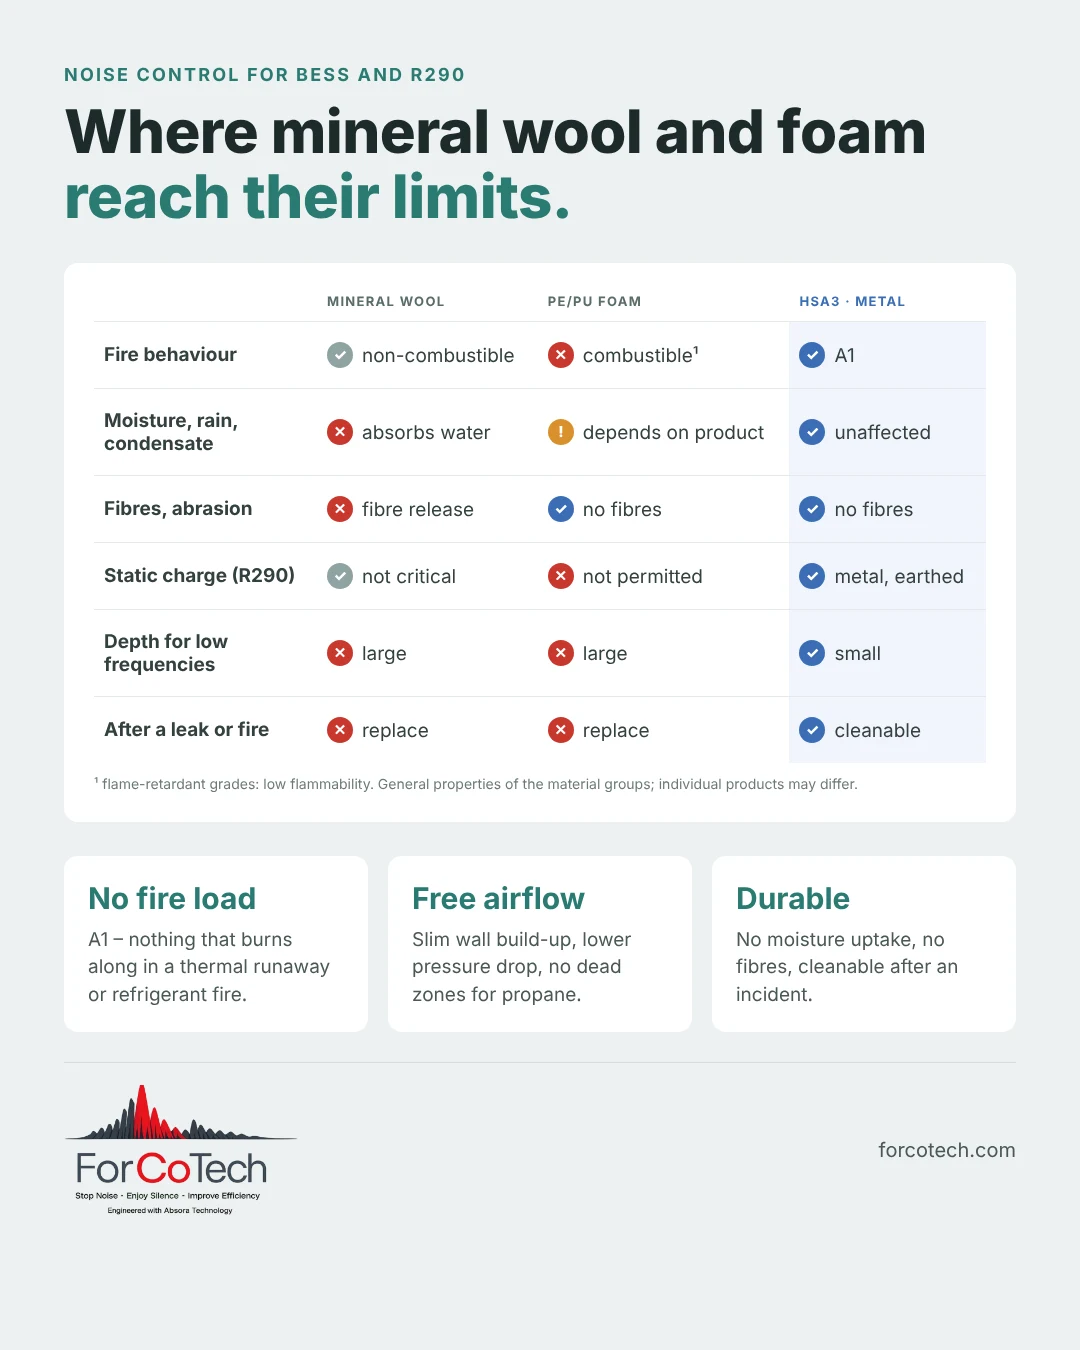
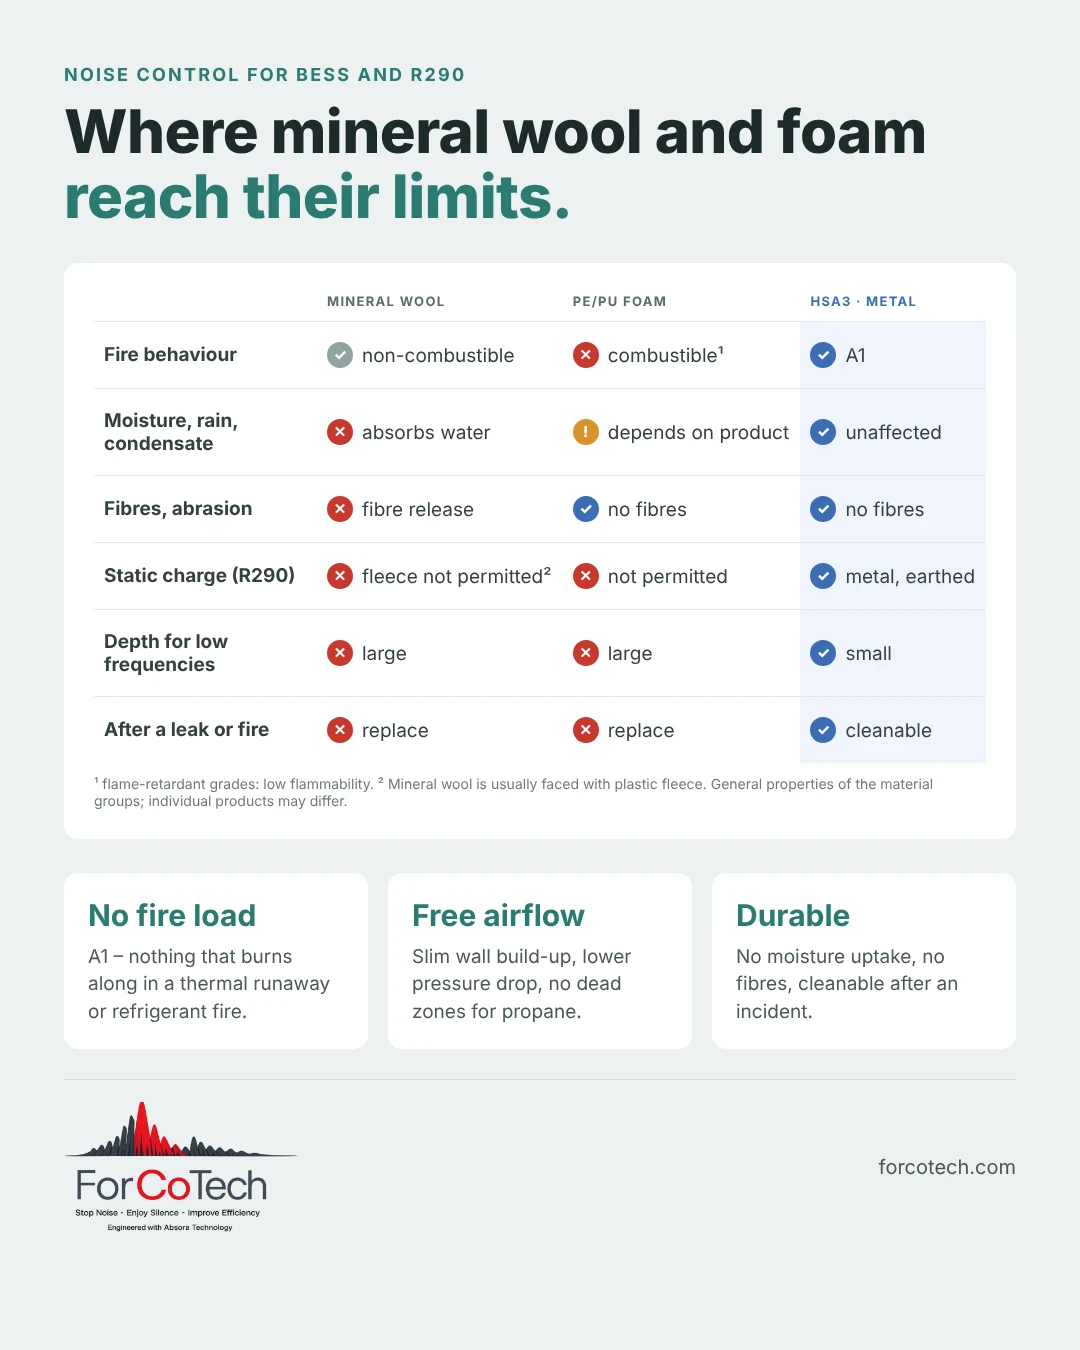
R290-Elektrostatik: Mineralwolle mit Kunststoffvlies ebenfalls als unzulässig gekennzeichnet
Claude-Session: https://claude.ai/code/session_019hLttAixdbpZvZQj1sVG3D

diff --git a/fr/actualites/schallschutz-bess-r290-hsa3/index.html b/fr/actualites/schallschutz-bess-r290-hsa3/index.html
@@ -68,7 +68,7 @@
 <p>Le propane est plus lourd que l’air. En cas de fuite, aucune concentration inflammable ne doit s’accumuler dans le caisson.</p>
 <ul class="check">
 <li><b>Les couches d’absorbant épaisses</b> réduisent les sections libres et créent des zones mortes où le gaz peut stagner.</li>
-<li><b>Les mousses plastiques et les voiles</b> peuvent se charger électrostatiquement sous l’effet du flux d’air. Les décharges électrostatiques sont une source d’inflammation : ces matériaux n’ont donc pas leur place dans la zone de sécurité d’une installation R290.</li>
+<li><b>Les mousses plastiques et les voiles synthétiques</b> qui recouvrent généralement la laine minérale peuvent se charger électrostatiquement sous l’effet du flux d’air. Les décharges électrostatiques sont une source d’inflammation : ces matériaux n’ont donc pas leur place dans la zone de sécurité d’une installation R290.</li>
 <li><b>HSA3 est en métal</b>, peut être mis à la terre en continu et reste fin. Nos caissons n’ont pas de fond et comportent des ouvertures de passage dans les profilés, afin que le réfrigérant qui s’échappe s’écoule librement vers le bas.</li>
 </ul>
 <p>Nous n’encoffrons une installation R290 qu’avec l’accord du fabricant de l’appareil. Plus d’informations sur notre <a href="/fr/technique/">page technique</a>.</p>
@@ -102,7 +102,7 @@
     <tr><th scope="row">Réaction au feu</th><td>incombustible selon le produit</td><td>combustible, difficilement inflammable en version ignifugée</td><td class="hl">A1, incombustible</td></tr>
     <tr><th scope="row">Humidité, pluie, condensats</th><td>absorbe l’eau</td><td>selon le produit</td><td class="hl">insensible</td></tr>
     <tr><th scope="row">Fibres, abrasion</th><td>émission de fibres possible</td><td>sans fibres</td><td class="hl">sans fibres</td></tr>
-    <tr><th scope="row">Électricité statique (R290)</th><td>non critique</td><td>chargeable – non admis dans la zone de sécurité R290</td><td class="hl">métal, mis à la terre en continu</td></tr>
+    <tr><th scope="row">Électricité statique (R290)</th><td>généralement revêtue d’un voile synthétique – non admis dans la zone de sécurité R290</td><td>chargeable – non admis dans la zone de sécurité R290</td><td class="hl">métal, mis à la terre en continu</td></tr>
     <tr><th scope="row">Épaisseur pour les basses fréquences</th><td>grande</td><td>grande</td><td class="hl">faible, cavité de résonance de 44 mm</td></tr>
     <tr><th scope="row">Perte de charge des baffles</th><td>référence</td><td>comparable</td><td class="hl">jusqu’à 40 % de moins</td></tr>
     <tr><th scope="row">Après fuite ou incendie</th><td>à remplacer</td><td>à remplacer</td><td class="hl">nettoyable, réutilisable</td></tr>

diff --git a/news/_src/schallschutz-bess-r290-hsa3.fr.html b/news/_src/schallschutz-bess-r290-hsa3.fr.html
@@ -16,7 +16,7 @@
 <p>Le propane est plus lourd que l’air. En cas de fuite, aucune concentration inflammable ne doit s’accumuler dans le caisson.</p>
 <ul class="check">
 <li><b>Les couches d’absorbant épaisses</b> réduisent les sections libres et créent des zones mortes où le gaz peut stagner.</li>
-<li><b>Les mousses plastiques et les voiles</b> peuvent se charger électrostatiquement sous l’effet du flux d’air. Les décharges électrostatiques sont une source d’inflammation : ces matériaux n’ont donc pas leur place dans la zone de sécurité d’une installation R290.</li>
+<li><b>Les mousses plastiques et les voiles synthétiques</b> qui recouvrent généralement la laine minérale peuvent se charger électrostatiquement sous l’effet du flux d’air. Les décharges électrostatiques sont une source d’inflammation : ces matériaux n’ont donc pas leur place dans la zone de sécurité d’une installation R290.</li>
 <li><b>HSA3 est en métal</b>, peut être mis à la terre en continu et reste fin. Nos caissons n’ont pas de fond et comportent des ouvertures de passage dans les profilés, afin que le réfrigérant qui s’échappe s’écoule librement vers le bas.</li>
 </ul>
 <p>Nous n’encoffrons une installation R290 qu’avec l’accord du fabricant de l’appareil. Plus d’informations sur notre <a href="/fr/technique/">page technique</a>.</p>
@@ -50,7 +50,7 @@
     <tr><th scope="row">Réaction au feu</th><td>incombustible selon le produit</td><td>combustible, difficilement inflammable en version ignifugée</td><td class="hl">A1, incombustible</td></tr>
     <tr><th scope="row">Humidité, pluie, condensats</th><td>absorbe l’eau</td><td>selon le produit</td><td class="hl">insensible</td></tr>
     <tr><th scope="row">Fibres, abrasion</th><td>émission de fibres possible</td><td>sans fibres</td><td class="hl">sans fibres</td></tr>
-    <tr><th scope="row">Électricité statique (R290)</th><td>non critique</td><td>chargeable – non admis dans la zone de sécurité R290</td><td class="hl">métal, mis à la terre en continu</td></tr>
+    <tr><th scope="row">Électricité statique (R290)</th><td>généralement revêtue d’un voile synthétique – non admis dans la zone de sécurité R290</td><td>chargeable – non admis dans la zone de sécurité R290</td><td class="hl">métal, mis à la terre en continu</td></tr>
     <tr><th scope="row">Épaisseur pour les basses fréquences</th><td>grande</td><td>grande</td><td class="hl">faible, cavité de résonance de 44 mm</td></tr>
     <tr><th scope="row">Perte de charge des baffles</th><td>référence</td><td>comparable</td><td class="hl">jusqu’à 40 % de moins</td></tr>
     <tr><th scope="row">Après fuite ou incendie</th><td>à remplacer</td><td>à remplacer</td><td class="hl">nettoyable, réutilisable</td></tr>

diff --git a/news/schallschutz-bess-r290-hsa3/index.html b/news/schallschutz-bess-r290-hsa3/index.html
@@ -70,7 +70,7 @@
 <p>Propan ist schwerer als Luft. Bei einem Leck darf sich in der Haube keine zündfähige Konzentration sammeln.</p>
 <ul class="check">
 <li><b>Dicke Absorberpakete</b> verengen Querschnitte und schaffen Toträume, in denen sich Gas halten kann.</li>
-<li><b>Kunststoffschäume und Vliese</b> können sich durch die Luftströmung elektrostatisch aufladen. Elektrostatische Entladungen sind eine Zündquelle. Im Schutzbereich einer R290-Anlage haben solche Materialien deshalb nichts zu suchen (vgl. TRGS 727).</li>
+<li><b>Kunststoffschäume und Kunststoffvliese</b>, mit denen Mineralwolle meist kaschiert ist, können sich durch die Luftströmung elektrostatisch aufladen. Elektrostatische Entladungen sind eine Zündquelle. Im Schutzbereich einer R290-Anlage haben solche Materialien deshalb nichts zu suchen (vgl. TRGS 727).</li>
 <li><b>HSA3 aus Metall</b> lässt sich durchgehend erden und baut schlank. Unsere Hauben haben keinen Boden und Durchströmöffnungen in den Profilen, damit austretendes Kältemittel frei nach unten abfließt.</li>
 </ul>
 <p>Eine Einhausung um eine R290-Anlage setzen wir nur mit Freigabe des Geräteherstellers um. Mehr dazu auf unserer <a href="/technik/">Technik-Seite</a>.</p>
@@ -104,7 +104,7 @@
     <tr><th scope="row">Brandverhalten</th><td>nicht brennbar, je nach Produkt</td><td>brennbar, als FR-Ausführung schwer entflammbar</td><td class="hl">A1, nicht brennbar</td></tr>
     <tr><th scope="row">Feuchte, Regen, Tauwasser</th><td>saugt Wasser auf</td><td>je nach Produkt</td><td class="hl">unempfindlich</td></tr>
     <tr><th scope="row">Fasern, Abrieb</th><td>Faserflug möglich</td><td>keine Fasern</td><td class="hl">keine Fasern</td></tr>
-    <tr><th scope="row">Elektrostatische Aufladung (R290)</th><td>unkritisch</td><td>aufladbar – im R290-Schutzbereich unzulässig</td><td class="hl">Metall, durchgehend erdbar</td></tr>
+    <tr><th scope="row">Elektrostatische Aufladung (R290)</th><td>meist mit Kunststoffvlies kaschiert – im R290-Schutzbereich unzulässig</td><td>aufladbar – im R290-Schutzbereich unzulässig</td><td class="hl">Metall, durchgehend erdbar</td></tr>
     <tr><th scope="row">Bautiefe für tiefe Frequenzen</th><td>groß</td><td>groß</td><td class="hl">gering, 44 mm Resonanzhohlraum</td></tr>
     <tr><th scope="row">Druckverlust in Kulissen</th><td>Referenz</td><td>vergleichbar</td><td class="hl">bis zu 40 % geringer</td></tr>
     <tr><th scope="row">Nach Leck oder Brand</th><td>Austausch</td><td>Austausch</td><td class="hl">reinigbar, weiterverwendbar</td></tr>

diff --git a/news/_src/schallschutz-bess-r290-hsa3.de.html b/news/_src/schallschutz-bess-r290-hsa3.de.html
@@ -16,7 +16,7 @@
 <p>Propan ist schwerer als Luft. Bei einem Leck darf sich in der Haube keine zündfähige Konzentration sammeln.</p>
 <ul class="check">
 <li><b>Dicke Absorberpakete</b> verengen Querschnitte und schaffen Toträume, in denen sich Gas halten kann.</li>
-<li><b>Kunststoffschäume und Vliese</b> können sich durch die Luftströmung elektrostatisch aufladen. Elektrostatische Entladungen sind eine Zündquelle. Im Schutzbereich einer R290-Anlage haben solche Materialien deshalb nichts zu suchen (vgl. TRGS 727).</li>
+<li><b>Kunststoffschäume und Kunststoffvliese</b>, mit denen Mineralwolle meist kaschiert ist, können sich durch die Luftströmung elektrostatisch aufladen. Elektrostatische Entladungen sind eine Zündquelle. Im Schutzbereich einer R290-Anlage haben solche Materialien deshalb nichts zu suchen (vgl. TRGS 727).</li>
 <li><b>HSA3 aus Metall</b> lässt sich durchgehend erden und baut schlank. Unsere Hauben haben keinen Boden und Durchströmöffnungen in den Profilen, damit austretendes Kältemittel frei nach unten abfließt.</li>
 </ul>
 <p>Eine Einhausung um eine R290-Anlage setzen wir nur mit Freigabe des Geräteherstellers um. Mehr dazu auf unserer <a href="/technik/">Technik-Seite</a>.</p>
@@ -50,7 +50,7 @@
     <tr><th scope="row">Brandverhalten</th><td>nicht brennbar, je nach Produkt</td><td>brennbar, als FR-Ausführung schwer entflammbar</td><td class="hl">A1, nicht brennbar</td></tr>
     <tr><th scope="row">Feuchte, Regen, Tauwasser</th><td>saugt Wasser auf</td><td>je nach Produkt</td><td class="hl">unempfindlich</td></tr>
     <tr><th scope="row">Fasern, Abrieb</th><td>Faserflug möglich</td><td>keine Fasern</td><td class="hl">keine Fasern</td></tr>
-    <tr><th scope="row">Elektrostatische Aufladung (R290)</th><td>unkritisch</td><td>aufladbar – im R290-Schutzbereich unzulässig</td><td class="hl">Metall, durchgehend erdbar</td></tr>
+    <tr><th scope="row">Elektrostatische Aufladung (R290)</th><td>meist mit Kunststoffvlies kaschiert – im R290-Schutzbereich unzulässig</td><td>aufladbar – im R290-Schutzbereich unzulässig</td><td class="hl">Metall, durchgehend erdbar</td></tr>
     <tr><th scope="row">Bautiefe für tiefe Frequenzen</th><td>groß</td><td>groß</td><td class="hl">gering, 44 mm Resonanzhohlraum</td></tr>
     <tr><th scope="row">Druckverlust in Kulissen</th><td>Referenz</td><td>vergleichbar</td><td class="hl">bis zu 40 % geringer</td></tr>
     <tr><th scope="row">Nach Leck oder Brand</th><td>Austausch</td><td>Austausch</td><td class="hl">reinigbar, weiterverwendbar</td></tr>

diff --git a/en/news/schallschutz-bess-r290-hsa3/index.html b/en/news/schallschutz-bess-r290-hsa3/index.html
@@ -70,7 +70,7 @@
 <p>Propane is heavier than air. In the event of a leak, no ignitable concentration may build up inside the enclosure.</p>
 <ul class="check">
 <li><b>Thick absorber layers</b> narrow the free cross-sections and create dead zones where gas can linger.</li>
-<li><b>Plastic foams and fleeces</b> can become electrostatically charged by the airflow. Electrostatic discharges are an ignition source, so such materials have no place within the safety zone of an R290 unit.</li>
+<li><b>Plastic foams and the plastic fleeces</b> usually laminated onto mineral wool can become electrostatically charged by the airflow. Electrostatic discharges are an ignition source, so such materials have no place within the safety zone of an R290 unit.</li>
 <li><b>HSA3 is metal</b>, can be earthed throughout and builds slim. Our enclosures have no floor and flow openings in the profiles, so leaking refrigerant drains freely downwards.</li>
 </ul>
 <p>We only enclose an R290 unit with the manufacturer’s approval. More on our <a href="/en/technology/">technology page</a>.</p>
@@ -104,7 +104,7 @@
     <tr><th scope="row">Fire behaviour</th><td>non-combustible, depending on product</td><td>combustible, low flammability as FR grade</td><td class="hl">A1, non-combustible</td></tr>
     <tr><th scope="row">Moisture, rain, condensate</th><td>absorbs water</td><td>depends on product</td><td class="hl">unaffected</td></tr>
     <tr><th scope="row">Fibres, abrasion</th><td>fibre release possible</td><td>no fibres</td><td class="hl">no fibres</td></tr>
-    <tr><th scope="row">Static charge (R290)</th><td>not critical</td><td>chargeable – not permitted in the R290 safety zone</td><td class="hl">metal, earthed throughout</td></tr>
+    <tr><th scope="row">Static charge (R290)</th><td>usually faced with plastic fleece – not permitted in the R290 safety zone</td><td>chargeable – not permitted in the R290 safety zone</td><td class="hl">metal, earthed throughout</td></tr>
     <tr><th scope="row">Depth for low frequencies</th><td>large</td><td>large</td><td class="hl">small, 44 mm resonance cavity</td></tr>
     <tr><th scope="row">Pressure drop in splitters</th><td>reference</td><td>comparable</td><td class="hl">up to 40 % lower</td></tr>
     <tr><th scope="row">After a leak or fire</th><td>replace</td><td>replace</td><td class="hl">cleanable, reusable</td></tr>

diff --git a/news/_src/schallschutz-bess-r290-hsa3.en.html b/news/_src/schallschutz-bess-r290-hsa3.en.html
@@ -16,7 +16,7 @@
 <p>Propane is heavier than air. In the event of a leak, no ignitable concentration may build up inside the enclosure.</p>
 <ul class="check">
 <li><b>Thick absorber layers</b> narrow the free cross-sections and create dead zones where gas can linger.</li>
-<li><b>Plastic foams and fleeces</b> can become electrostatically charged by the airflow. Electrostatic discharges are an ignition source, so such materials have no place within the safety zone of an R290 unit.</li>
+<li><b>Plastic foams and the plastic fleeces</b> usually laminated onto mineral wool can become electrostatically charged by the airflow. Electrostatic discharges are an ignition source, so such materials have no place within the safety zone of an R290 unit.</li>
 <li><b>HSA3 is metal</b>, can be earthed throughout and builds slim. Our enclosures have no floor and flow openings in the profiles, so leaking refrigerant drains freely downwards.</li>
 </ul>
 <p>We only enclose an R290 unit with the manufacturer’s approval. More on our <a href="/en/technology/">technology page</a>.</p>
@@ -50,7 +50,7 @@
     <tr><th scope="row">Fire behaviour</th><td>non-combustible, depending on product</td><td>combustible, low flammability as FR grade</td><td class="hl">A1, non-combustible</td></tr>
     <tr><th scope="row">Moisture, rain, condensate</th><td>absorbs water</td><td>depends on product</td><td class="hl">unaffected</td></tr>
     <tr><th scope="row">Fibres, abrasion</th><td>fibre release possible</td><td>no fibres</td><td class="hl">no fibres</td></tr>
-    <tr><th scope="row">Static charge (R290)</th><td>not critical</td><td>chargeable – not permitted in the R290 safety zone</td><td class="hl">metal, earthed throughout</td></tr>
+    <tr><th scope="row">Static charge (R290)</th><td>usually faced with plastic fleece – not permitted in the R290 safety zone</td><td>chargeable – not permitted in the R290 safety zone</td><td class="hl">metal, earthed throughout</td></tr>
     <tr><th scope="row">Depth for low frequencies</th><td>large</td><td>large</td><td class="hl">small, 44 mm resonance cavity</td></tr>
     <tr><th scope="row">Pressure drop in splitters</th><td>reference</td><td>comparable</td><td class="hl">up to 40 % lower</td></tr>
     <tr><th scope="row">After a leak or fire</th><td>replace</td><td>replace</td><td class="hl">cleanable, reusable</td></tr>

diff --git a/hsa3/index.html b/hsa3/index.html
@@ -121,7 +121,7 @@
           <tr><th scope="row">Brandverhalten</th><td>nicht brennbar, je nach Produkt</td><td>brennbar, als FR-Ausführung schwer entflammbar</td><td class="hl">A1, nicht brennbar</td></tr>
           <tr><th scope="row">Feuchte, Regen</th><td>nimmt Wasser auf, braucht Abdeckung</td><td>je nach Zellstruktur</td><td class="hl">unempfindlich, Metall</td></tr>
           <tr><th scope="row">Fasern, Abrieb</th><td>Fasern, Abdeckvlies nötig</td><td>keine Fasern</td><td class="hl">keine Fasern</td></tr>
-          <tr><th scope="row">Elektrostatische Aufladung</th><td>unkritisch</td><td>aufladbar – im R290-Schutzbereich unzulässig</td><td class="hl">Metall, durchgehend erdbar</td></tr>
+          <tr><th scope="row">Elektrostatische Aufladung</th><td>meist mit Kunststoffvlies kaschiert – im R290-Schutzbereich unzulässig</td><td>aufladbar – im R290-Schutzbereich unzulässig</td><td class="hl">Metall, durchgehend erdbar</td></tr>
           <tr><th scope="row">Nach Leck oder Brand</th><td>Austausch</td><td>Austausch</td><td class="hl">reinigbar, weiterverwendbar</td></tr>
           <tr><th scope="row">Druckverlust in Kulissen</th><td>Referenz</td><td>vergleichbar</td><td class="hl">bis zu 40 % geringer</td></tr>
           <tr><th scope="row">Rückbau</th><td>Mischabfall</td><td>Kunststoffabfall</td><td class="hl">verschraubt, sortenrein rückbaubar</td></tr>

diff --git a/hsa3/_src/de.html b/hsa3/_src/de.html
@@ -55,7 +55,7 @@
           <tr><th scope="row">Brandverhalten</th><td>nicht brennbar, je nach Produkt</td><td>brennbar, als FR-Ausführung schwer entflammbar</td><td class="hl">A1, nicht brennbar</td></tr>
           <tr><th scope="row">Feuchte, Regen</th><td>nimmt Wasser auf, braucht Abdeckung</td><td>je nach Zellstruktur</td><td class="hl">unempfindlich, Metall</td></tr>
           <tr><th scope="row">Fasern, Abrieb</th><td>Fasern, Abdeckvlies nötig</td><td>keine Fasern</td><td class="hl">keine Fasern</td></tr>
-          <tr><th scope="row">Elektrostatische Aufladung</th><td>unkritisch</td><td>aufladbar – im R290-Schutzbereich unzulässig</td><td class="hl">Metall, durchgehend erdbar</td></tr>
+          <tr><th scope="row">Elektrostatische Aufladung</th><td>meist mit Kunststoffvlies kaschiert – im R290-Schutzbereich unzulässig</td><td>aufladbar – im R290-Schutzbereich unzulässig</td><td class="hl">Metall, durchgehend erdbar</td></tr>
           <tr><th scope="row">Nach Leck oder Brand</th><td>Austausch</td><td>Austausch</td><td class="hl">reinigbar, weiterverwendbar</td></tr>
           <tr><th scope="row">Druckverlust in Kulissen</th><td>Referenz</td><td>vergleichbar</td><td class="hl">bis zu 40 % geringer</td></tr>
           <tr><th scope="row">Rückbau</th><td>Mischabfall</td><td>Kunststoffabfall</td><td class="hl">verschraubt, sortenrein rückbaubar</td></tr>

diff --git a/en/hsa3/index.html b/en/hsa3/index.html
@@ -121,7 +121,7 @@
           <tr><th scope="row">Reaction to fire</th><td>non-combustible, depending on product</td><td>combustible, flame-retardant as FR version</td><td class="hl">A1, non-combustible</td></tr>
           <tr><th scope="row">Moisture, rain</th><td>absorbs water, needs covering</td><td>depends on cell structure</td><td class="hl">unaffected, metal</td></tr>
           <tr><th scope="row">Fibres, abrasion</th><td>fibres, cover fleece needed</td><td>no fibres</td><td class="hl">no fibres</td></tr>
-          <tr><th scope="row">Static charge</th><td>not critical</td><td>chargeable – not permitted in the R290 safety zone</td><td class="hl">metal, earthed throughout</td></tr>
+          <tr><th scope="row">Static charge</th><td>usually faced with plastic fleece – not permitted in the R290 safety zone</td><td>chargeable – not permitted in the R290 safety zone</td><td class="hl">metal, earthed throughout</td></tr>
           <tr><th scope="row">After a leak or fire</th><td>replace</td><td>replace</td><td class="hl">cleanable, reusable</td></tr>
           <tr><th scope="row">Pressure drop in splitters</th><td>reference</td><td>comparable</td><td class="hl">up to 40 % lower</td></tr>
           <tr><th scope="row">Dismantling</th><td>mixed waste</td><td>plastic waste</td><td class="hl">bolted, separable by material</td></tr>

diff --git a/hsa3/_src/en.html b/hsa3/_src/en.html
@@ -55,7 +55,7 @@
           <tr><th scope="row">Reaction to fire</th><td>non-combustible, depending on product</td><td>combustible, flame-retardant as FR version</td><td class="hl">A1, non-combustible</td></tr>
           <tr><th scope="row">Moisture, rain</th><td>absorbs water, needs covering</td><td>depends on cell structure</td><td class="hl">unaffected, metal</td></tr>
           <tr><th scope="row">Fibres, abrasion</th><td>fibres, cover fleece needed</td><td>no fibres</td><td class="hl">no fibres</td></tr>
-          <tr><th scope="row">Static charge</th><td>not critical</td><td>chargeable – not permitted in the R290 safety zone</td><td class="hl">metal, earthed throughout</td></tr>
+          <tr><th scope="row">Static charge</th><td>usually faced with plastic fleece – not permitted in the R290 safety zone</td><td>chargeable – not permitted in the R290 safety zone</td><td class="hl">metal, earthed throughout</td></tr>
           <tr><th scope="row">After a leak or fire</th><td>replace</td><td>replace</td><td class="hl">cleanable, reusable</td></tr>
           <tr><th scope="row">Pressure drop in splitters</th><td>reference</td><td>comparable</td><td class="hl">up to 40 % lower</td></tr>
           <tr><th scope="row">Dismantling</th><td>mixed waste</td><td>plastic waste</td><td class="hl">bolted, separable by material</td></tr>
